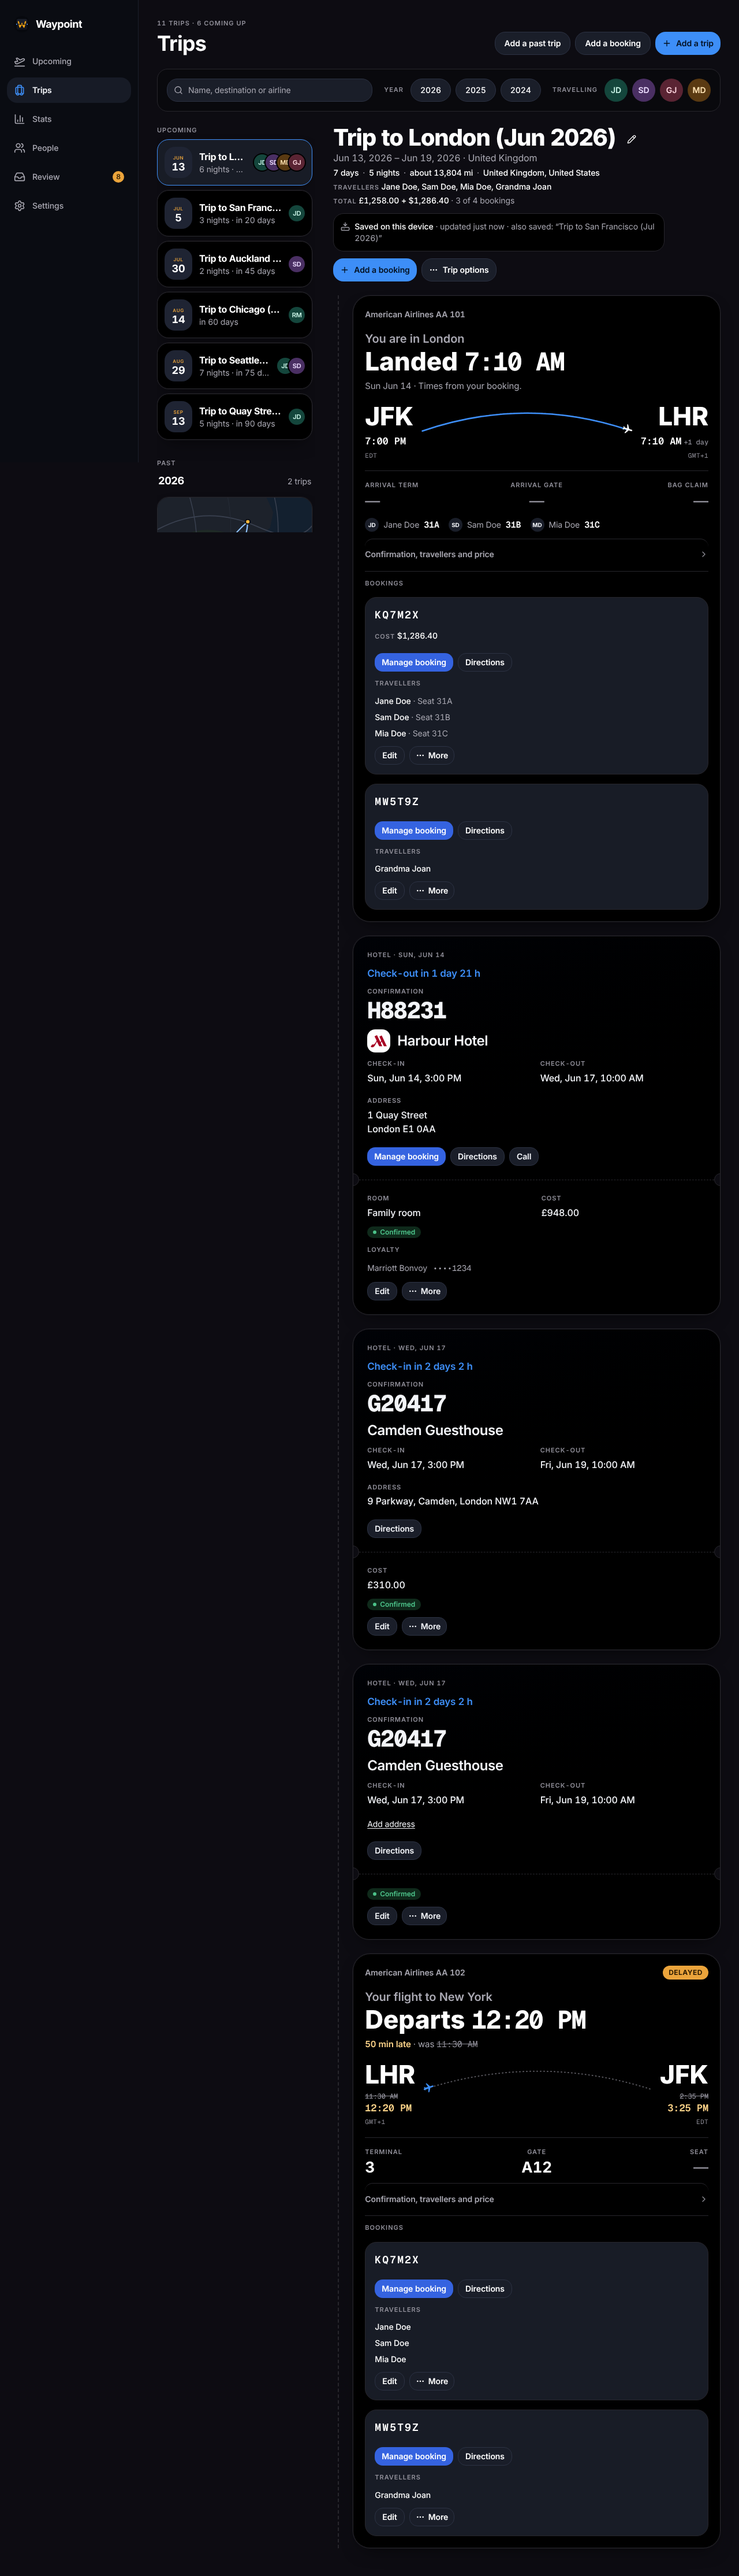
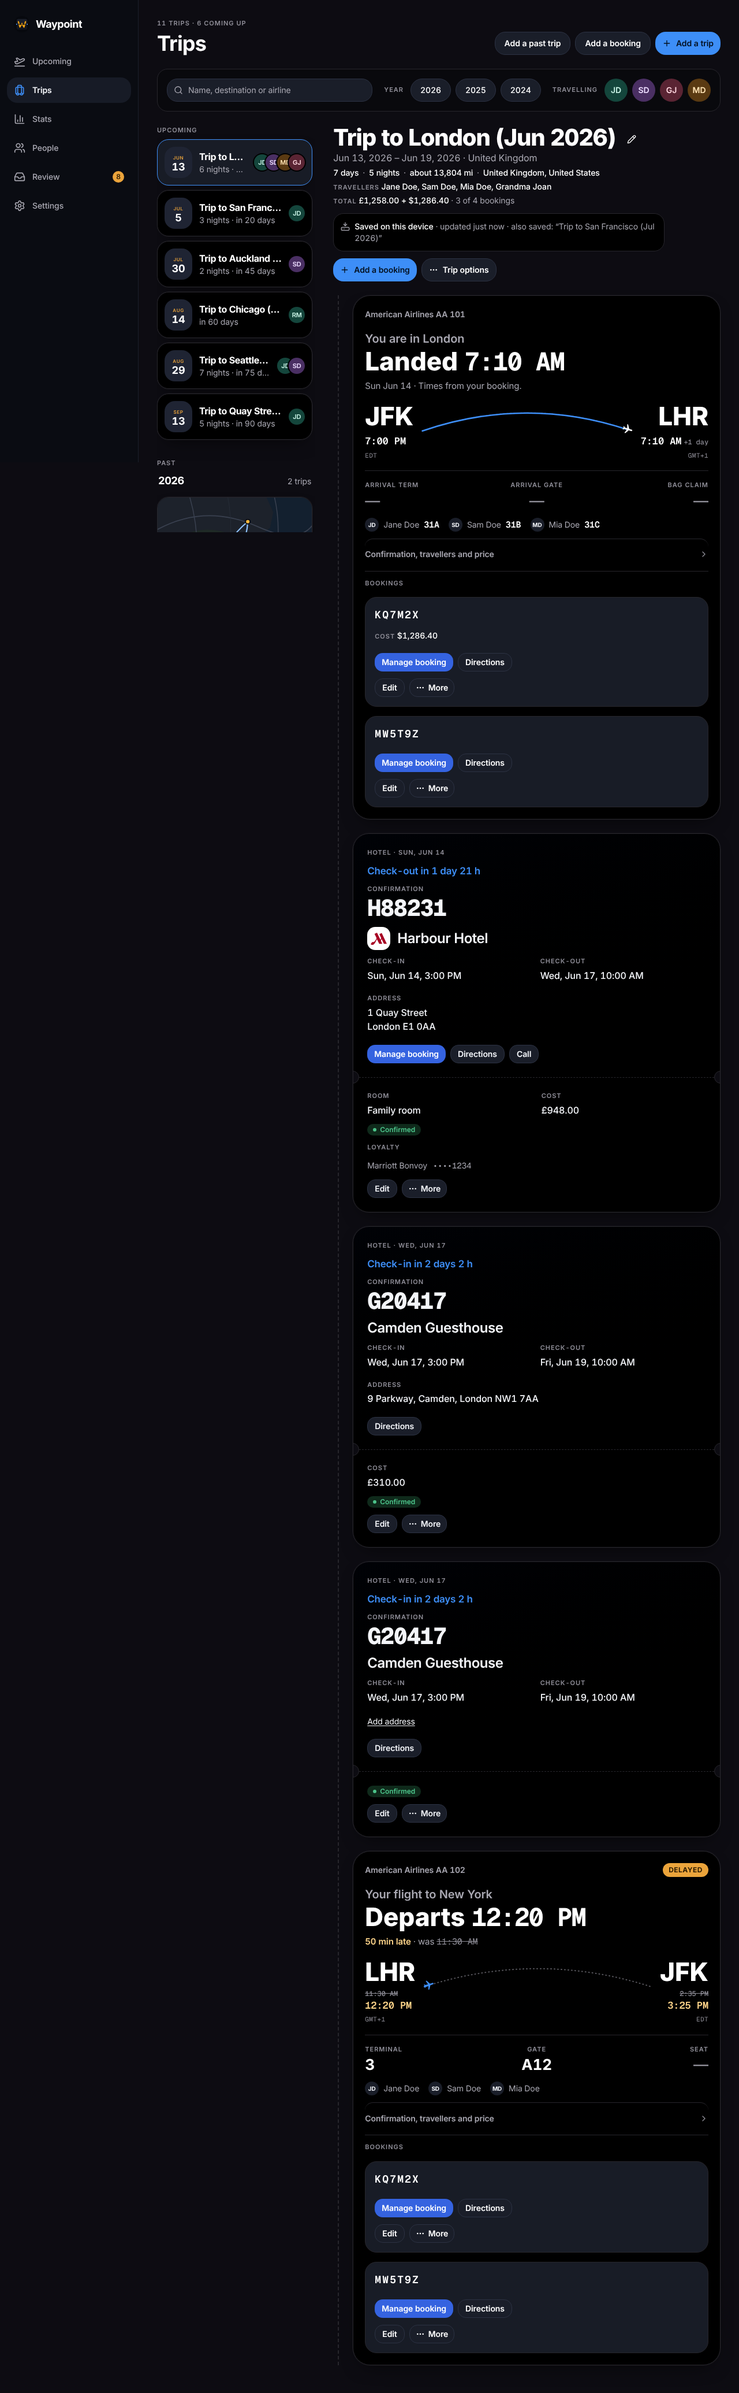
fix: travellers only on the hero, and the age of a cached gate stays on the quiet line (#881)
Claude-Session: https://claude.ai/code/session_01VkTLMaRYAHGUMQLTkxcTjb

diff --git a/frontend/src/pages/Trip.svelte.test.ts b/frontend/src/pages/Trip.svelte.test.ts
@@ -169,8 +169,8 @@ describe("Trip", () => {
       held = trip([flightFor, car]);
       render(TripPage);
       const card = await cardOf(flightFor);
-      expect(card).toHaveTextContent("Jane Doe · Seat 31A");
-      expect(card).toHaveTextContent("Sam Doe · Seat 31B");
+      expect(card.querySelector("[data-seats]")).toHaveTextContent("Jane Doe31A");
+      expect(card.querySelector("[data-seats]")).toHaveTextContent("Sam Doe31B");
     });
 
     it("keeps a booking-level seat that no traveller holds", async () => {
@@ -179,14 +179,16 @@ describe("Trip", () => {
       render(TripPage);
       const card = await cardOf(odd);
       expect(card).toHaveTextContent("99Z");
-      expect(card).toHaveTextContent("Jane Doe · Seat 12A");
+      expect(card.querySelector("[data-seats]")).toHaveTextContent("Jane Doe12A");
     });
 
     it("lists each seat beside its traveller, and in the card’s Seats fact", async () => {
       held = trip([flightFor, car]);
       render(TripPage);
       const card = await cardOf(flightFor);
-      expect(within(card).getAllByText("Jane Doe").map((el) => el.parentElement?.textContent)).toEqual([expect.stringContaining("31A"), expect.stringContaining("Seat 31A")]);
+      expect(within(card).getAllByText("Jane Doe")).toHaveLength(1);
+      expect(card).not.toHaveTextContent("· Seat");
+      expect(within(card).queryByRole("heading", { name: "Travellers" })).toBeNull();
       expect(card.querySelector("[data-seats]")).toHaveTextContent("Jane Doe31A");
       expect(card.querySelector("[data-seats]")).toHaveTextContent("Sam Doe31B");
       expect(card.querySelector("[data-facts]")).toHaveTextContent("Seats 31A, 31B");
@@ -629,7 +631,6 @@ describe("Trip", () => {
     expect(first.queryByText(/••••4567/)).toBeNull();
     expect(first.queryByText(/number yet/)).toBeNull();
     expect(first.getByRole("button", { name: "Copy confirmation code KQ7M2X" })).toBeInTheDocument();
-    expect(first.getByText(/Not matched to a person/)).toBeInTheDocument();
     const hotel = within(cards[1]);
     expect(hotel.getByText("Changed")).toBeInTheDocument();
     expect(hotel.getByRole("button", { name: /^Show and copy Marriott Bonvoy number/ })).toHaveTextContent("••••8899");
@@ -948,11 +949,10 @@ describe("Trip", () => {
       const blocks = within(cards[0]).getAllByRole("listitem").filter((li) => li.hasAttribute("data-booking"));
       expect(blocks).toHaveLength(2);
       expect(within(blocks[0]).getByRole("button", { name: "Copy confirmation code KQ7M2X" })).toBeInTheDocument();
-      expect(within(blocks[0]).getByText("Jane Doe")).toBeInTheDocument();
-      expect(within(blocks[0]).queryByText("Sam Doe")).toBeInTheDocument();
+      expect(within(blocks[0]).queryByText("Jane Doe")).toBeNull();
+      expect(within(cards[0]).queryByRole("heading", { name: "Travellers" })).toBeNull();
       expect(within(blocks[1]).getByRole("button", { name: "Copy confirmation code BBBBBB" })).toBeInTheDocument();
-      expect(within(blocks[1]).getByText("Sam Doe")).toBeInTheDocument();
-      expect(within(blocks[1]).queryByText("Jane Doe")).toBeNull();
+      expect(within(blocks[1]).queryByText("Sam Doe")).toBeNull();
       expect(within(blocks[1]).getByRole("link", { name: /Manage booking|Open in app/ })).toHaveAttribute("href", "https://example.com/manage/b");
       expect(within(blocks[0]).getByRole("button", { name: "Edit JFK → LHR booking KQ7M2X" })).toBeInTheDocument();
       expect(within(blocks[1]).getByRole("button", { name: "Edit JFK → LHR booking BBBBBB" })).toBeInTheDocument();
@@ -985,10 +985,10 @@ describe("Trip", () => {
       held = trip([{ ...flight, travelers: [{ id: 1, person_id: 1, name: "Jane Doe", seat: "31A" }, { id: 2, person_id: 2, name: "Sam Doe", seat: "31B" }, { id: 3, person_id: null, name: "DOE/MIA MISS", seat: null }] }]);
       render(TripPage);
       await screen.findByRole("heading", { name: "Trip to London" });
-      const who = within(screen.getByRole("heading", { name: "Travellers" }).parentElement!);
-      expect(who.getByText("Jane Doe").closest("li")).toHaveTextContent("Jane Doe · Seat 31A");
-      expect(who.getByText("Sam Doe").closest("li")).toHaveTextContent("Sam Doe · Seat 31B");
-      expect(who.getByText("DOE/MIA MISS").closest("li")).not.toHaveTextContent("Seat");
+      const who = within(document.querySelector("[data-seats]") as HTMLElement);
+      expect(who.getByText("Jane Doe").closest("li")).toHaveTextContent("Jane Doe31A");
+      expect(who.getByText("Sam Doe").closest("li")).toHaveTextContent("Sam Doe31B");
+      expect(who.getByText("DOE/MIA MISS").closest("li")).toHaveTextContent(/^DMDOE\/MIA MISS$/);
     });
 
     it("has a seat field for each ticked traveller, and sends them", async () => {

diff --git a/frontend/src/pages/Trip.svelte b/frontend/src/pages/Trip.svelte
@@ -433,15 +433,15 @@
       {@const s = card.lead}
       {#if flightCard(card)}
         <li id={`segment-${s.id}`} class="scroll-mt-20" data-flight-card>
-          <FlightCard segment={s} status={liveOn ? statusFor(s.id) : undefined} {liveOn} {now} online={typeof navigator === "undefined" || navigator.onLine !== false} highlight={wanted === String(s.id)} paused={liveOn ? flightStatus.list?.paused : null} href={`#trip/${t.id}/flight/${s.id}`} travellers={showTripTravellers(everyone, app.state?.person_id ?? null)} ondetail={(from) => openDetail(s, from)}>
+          <FlightCard segment={s} status={liveOn ? statusFor(s.id) : undefined} {liveOn} {now} online={typeof navigator === "undefined" || navigator.onLine !== false} highlight={wanted === String(s.id)} paused={liveOn ? flightStatus.list?.paused : null} href={`#trip/${t.id}/flight/${s.id}`} travellers={showBookingTravellers(s, everyone)} ondetail={(from) => openDetail(s, from)}>
             {#snippet footer()}
               {#if card.segments.length === 1}
                 {@render flightBooking(s)}
                 {@render ports(s)}{@render links(s)}
-                {@render singleFooter(s)}
+                {@render singleFooter(s, true)}
               {:else}
                 {#if card.timesDiffer}<p class="text-sm font-medium" data-times-differ><Badge variant="secondary">Times differ between bookings</Badge> <span class="text-muted-foreground">Each booking’s times are below.</span></p>{/if}
-                {@render multiFooter(card)}
+                {@render multiFooter(card, true)}
               {/if}
             {/snippet}
           </FlightCard>
@@ -510,9 +510,9 @@
   {/if}
 </Sheet>
 
-{#snippet singleFooter(s: Segment)}
+{#snippet singleFooter(s: Segment, hero = false)}
   <div class="flex flex-col gap-3">
-    {#if showBookingTravellers(s, everyone)}
+    {#if showBookingTravellers(s, everyone) && !hero}
       <h3 class="eyebrow">Travellers</h3>
       {@render travellerList(s)}
       {#if s.kind === "cruise" && !over}{@render membershipList(s)}{/if}
@@ -523,7 +523,7 @@
   </div>
 {/snippet}
 
-{#snippet multiFooter(card: Card)}
+{#snippet multiFooter(card: Card, hero = false)}
   <div class="flex flex-col gap-4">
     <h3 class="eyebrow">Bookings</h3>
     <ul class="flex flex-col gap-4" aria-label={`Bookings of ${headline(card.lead)}`}>
@@ -541,8 +541,10 @@
               {#if b.status === "cancelled"}<span class="text-muted-foreground"> · cancelled, so not in the trip’s total</span>{/if}</p>
           {/if}
           {@render links(b)}
-          <h4 class="eyebrow">Travellers</h4>
-          {@render travellerList(b)}
+          {#if !hero}
+            <h4 class="eyebrow">Travellers</h4>
+            {@render travellerList(b)}
+          {/if}
           {@render buttons(b, name)}
         </li>
       {/each}

diff --git a/frontend/src/lib/flighthero.ts b/frontend/src/lib/flighthero.ts
@@ -5,7 +5,7 @@ import { instant } from "./trips";
 export type HeroTone = "primary" | "success" | "signal";
 export type HeroTop = { text: string; tone: HeroTone; pill: boolean; plane: boolean; dot: boolean };
 export type HeroFact = { label: string; value: string | null; mono: boolean };
-export type HeroSeat = { name: string; initials: string; seat: string };
+export type HeroSeat = { name: string; initials: string; seat: string | null };
 export type HeroQuiet = { late: string; struck: string | null; text: string; onTime: boolean };
 export type HeroView = {
   carrierLine: string;
@@ -109,7 +109,9 @@ export function heroView(v: FlightCardView, segment: Segment, city: (code: strin
       case "delayed": return { late: delay ? `${delay} min late` : "Running late", struck: v.depart.original ? upper(v.depart.original) : null, text: "", onTime: false };
       case "scheduled": {
         if (v.noLive) return { late: "", struck: null, text: `${shortDay(v.depart.local)} · Times from your booking. Live status starts ${LIVE_STATUS_STARTS_DAYS} ${LIVE_STATUS_STARTS_DAYS === 1 ? "day" : "days"} before.`, onTime: false };
-        return v.live ? { late: "", struck: null, text: shortDay(v.depart.local), onTime: true } : { late: "", struck: null, text: `${shortDay(v.depart.local)} · Times from your booking.`, onTime: false };
+        if (v.live) return { late: "", struck: null, text: shortDay(v.depart.local), onTime: true };
+        const cached = v.facts.some((f) => f.source === "live" && f.value);
+        return { late: "", struck: null, text: `${shortDay(v.depart.local)} · ${cached && updated ? updated : "Times from your booking."}`, onTime: false };
       }
       case "boarding": return { late: "", struck: null, text: shortDay(v.depart.local), onTime: true };
       case "cancelled": return { late: "", struck: null, text: v.sentence, onTime: false };
@@ -125,7 +127,7 @@ export function heroView(v: FlightCardView, segment: Segment, city: (code: strin
     ? { label: f.label, value: seatList.length ? seatsValue(seatList) : null, mono: true }
     : { label: names[i] ?? f.label, value: f.value, mono: false }));
 
-  const seats: HeroSeat[] = travellers ? segment.travelers.flatMap((t) => (t.seat ? [{ name: t.name, initials: initialsOf(t.name), seat: t.seat }] : [])) : [];
+  const seats: HeroSeat[] = travellers ? segment.travelers.map((t) => ({ name: t.name, initials: initialsOf(t.name), seat: t.seat })) : [];
 
   const was = v.divertedTo ? segment.destination ?? null : null;
   return { carrierLine, top, sentence, big, bigTime, quiet, facts, seats: seats.length > 1 ? seats : [], landed: arrived, cancelled: v.state === "cancelled", was };

diff --git a/frontend/src/lib/components/FlightCard.svelte.test.ts b/frontend/src/lib/components/FlightCard.svelte.test.ts
@@ -334,6 +334,16 @@ describe("a stored status that is too old to trust", () => {
     expect(card.textContent).not.toMatch(/Originally|Delayed/);
     expect(facts(card).slice(0, 2)).toEqual([["Terminal", "B"], ["Gate", "B14"]]);
   });
+
+  it("keeps the age of a cached gate on the quiet line, and says the times are from the booking only when no live fact is kept", async () => {
+    const first = draw({ now: NOW.delayed, status: CASES[2].status }, { online: false });
+    let card = await screen.findByRole("article");
+    expect(flat(card.querySelector("[data-quiet]"))).toBe("Thu Jun 12 · Updated 4 minutes ago");
+    first.unmount();
+    draw({ now: NOW.delayed, status: mk(NOW.delayed, 4, { state: "delayed", dep_estimated: "2025-06-12T10:15", delay_minutes: 35 }) }, { online: false });
+    card = await screen.findByRole("article");
+    expect(flat(card.querySelector("[data-quiet]"))).toBe("Thu Jun 12 · Times from your booking.");
+  });
 });
 
 describe("when live updates are paused", () => {

diff --git a/frontend/src/lib/components/FlightHero.svelte b/frontend/src/lib/components/FlightHero.svelte
@@ -78,8 +78,8 @@
 
   {#if hero.seats.length}
     <ul class="mt-3.5 flex flex-wrap gap-x-4 gap-y-2" data-seats>
-      {#each hero.seats as s (s.name + s.seat)}
-        <li class="inline-flex items-center gap-2 text-sm text-muted-foreground"><i class="grid size-6 place-items-center rounded-full bg-secondary text-[10px] font-bold not-italic text-secondary-foreground" aria-hidden="true">{s.initials}</i>{s.name}<span class="font-mono text-[15px] font-semibold text-foreground">{s.seat}</span></li>
+      {#each hero.seats as s, i (i)}
+        <li class="inline-flex items-center gap-2 text-sm text-muted-foreground"><i class="grid size-6 place-items-center rounded-full bg-secondary text-[10px] font-bold not-italic text-secondary-foreground" aria-hidden="true">{s.initials}</i>{s.name}{#if s.seat}<span class="font-mono text-[15px] font-semibold text-foreground">{s.seat}</span>{/if}</li>
       {/each}
     </ul>
   {/if}
